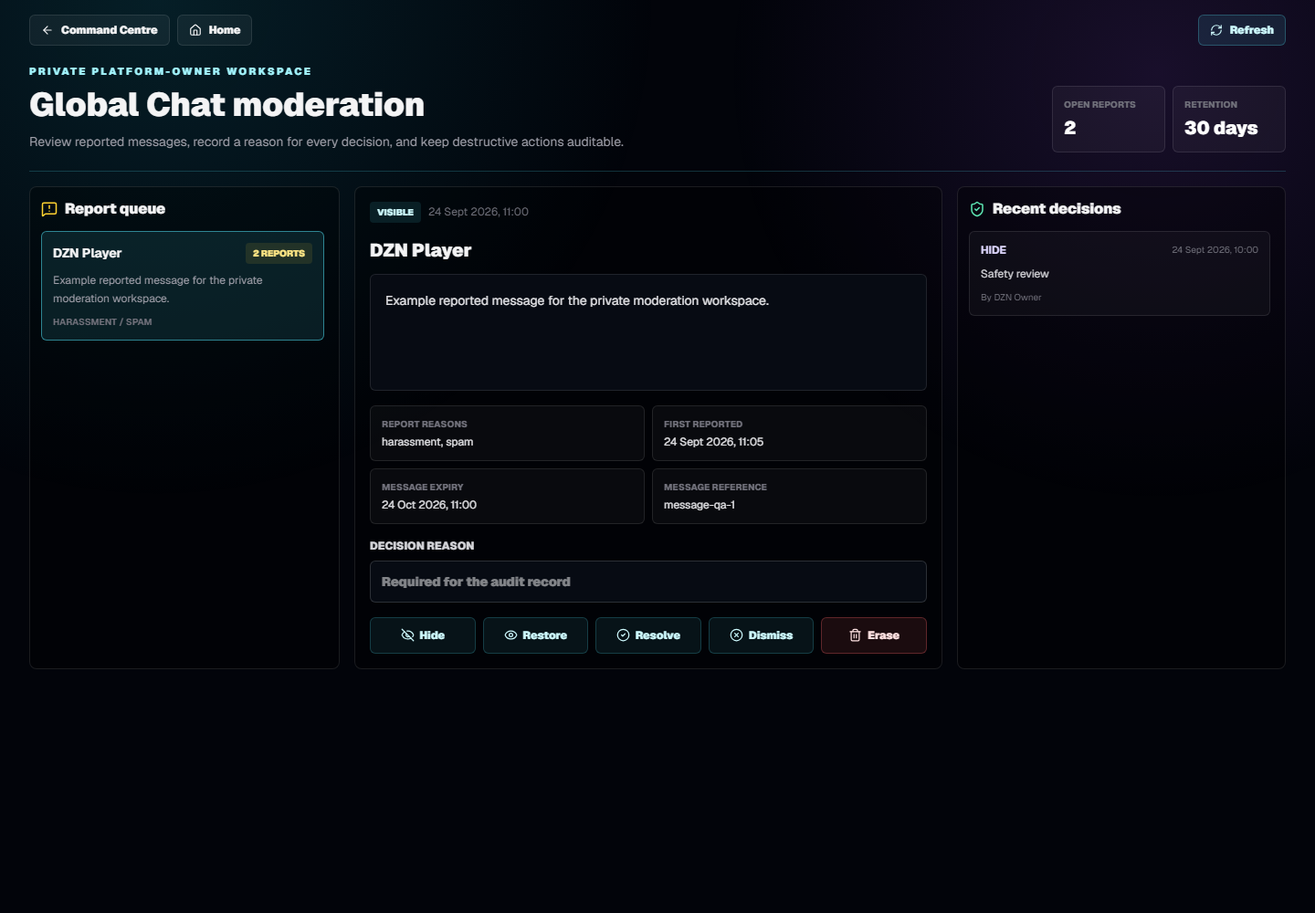
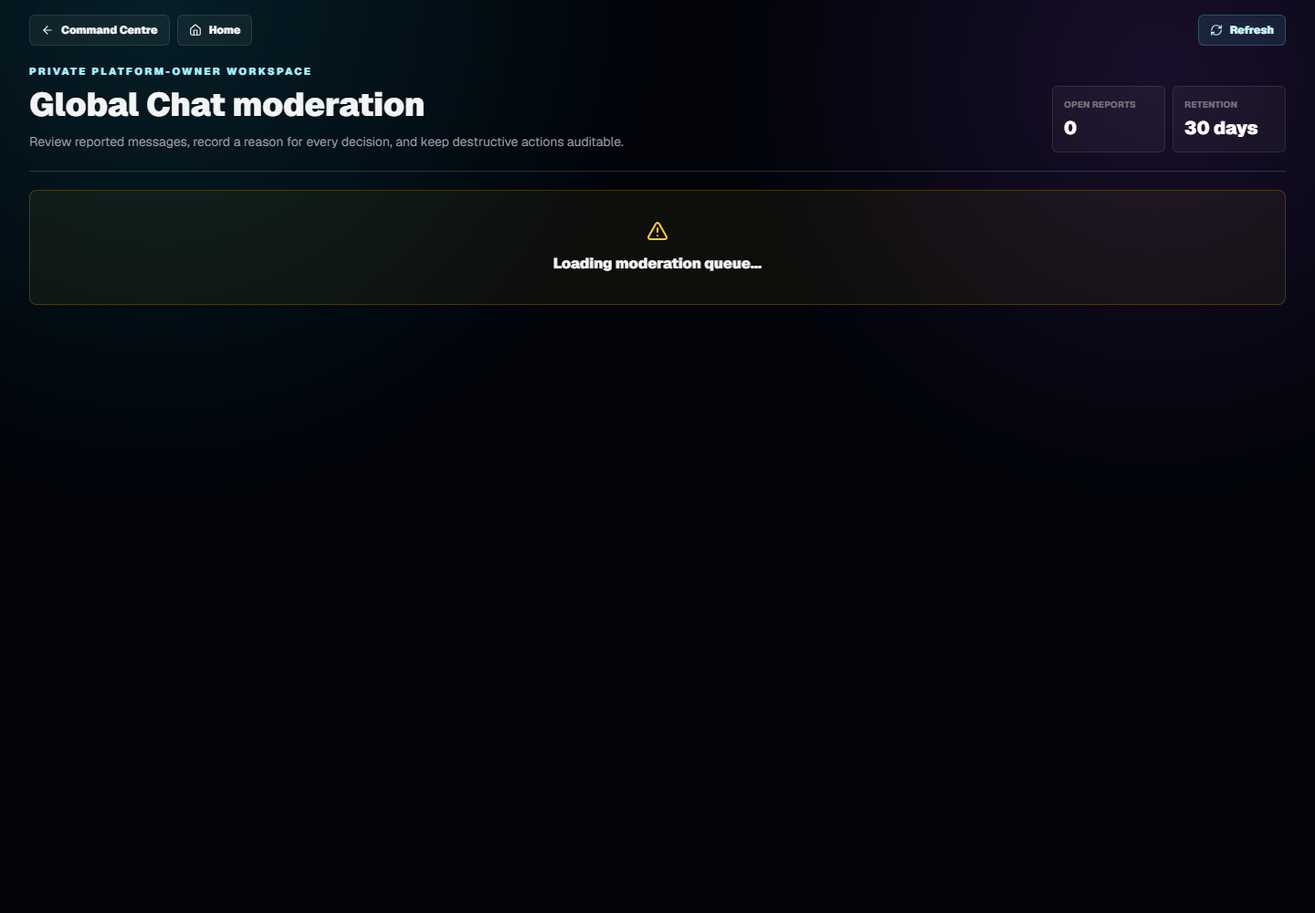
Add private Comms ledger migration

diff --git a/functions/_lib/dzn-comms-live.ts b/functions/_lib/dzn-comms-live.ts
@@ -73,6 +73,7 @@ export async function handleDznCommsSend(request: Request, env: Env) {
   const channel = await db.prepare("SELECT id FROM dzn_comms_channels WHERE slug = 'global-chat' AND kind = 'public' AND visibility = 'public' AND is_readable = 1 LIMIT 1").first<{ id: string }>();
   if (!channel?.id) return error(503, "CHAT_NOT_READY", "Global Chat is not ready yet.");
   const bodyHash = await keyedDigest(typeof parsed.value.body === "string" ? parsed.value.body : "", env.SESSION_SECRET!);
+  const actorReceiptKey = await receiptDigest(user.id, env.SESSION_SECRET!);
   const actorRateKey = await rateLimitDigest(user.id, env.SESSION_SECRET!);
   const now = new Date();
   const minuteBucket = now.toISOString().slice(0, 16);
@@ -82,34 +83,34 @@ export async function handleDznCommsSend(request: Request, env: Env) {
     if (isQuotaConstraintError(cause)) return error(429, "RATE_LIMITED", "Too many chat attempts were made. Wait a moment and retry.");
     return error(503, "CHAT_STORAGE_UNAVAILABLE", "Global Chat could not verify this attempt. Retry shortly.");
   }
-  const replay = await readReceipt(db, user.id, channel.id, requestId);
+  const replay = await readReceipt(db, actorReceiptKey, channel.id, requestId);
   if (replay) {
     if (replay.body_hash !== bodyHash) return error(409, "REQUEST_ID_CONFLICT", "This retry ID was already used for different text.");
     return receiptResponse(replay, true);
   }
   const timeout = await db.prepare("SELECT expires_at FROM dzn_comms_timeouts WHERE actor_user_id = ? AND julianday(expires_at) > julianday('now') LIMIT 1").bind(user.id).first<{ expires_at: string }>();
   if (timeout) return error(423, "CHAT_TIMEOUT", "Chat is temporarily unavailable for this account.");
-  if (moderated.decision !== "allow") return storeRejected(db, user, channel.id, requestId, bodyHash, moderated.decision, moderated.code);
+  if (moderated.decision !== "allow") return storeRejected(db, user, actorReceiptKey, channel.id, requestId, bodyHash, moderated.decision, moderated.code);
   const messageId = crypto.randomUUID();
   const receiptId = crypto.randomUUID();
   const expires = new Date(now.getTime() + 7 * 86_400_000).toISOString();
   const messageExpires = new Date(now.getTime() + MESSAGE_RETENTION_DAYS * 86_400_000).toISOString();
   try {
     await db.batch([
-      deleteExpiredReceipt(db, user.id, channel.id, requestId),
+      deleteExpiredReceipt(db, actorReceiptKey, channel.id, requestId),
       allocateSendSlot(db, actorRateKey, minuteBucket, now.toISOString()),
       db.prepare("INSERT INTO dzn_comms_messages (id, channel_id, author_user_id, author_display_name, author_role_label, body, visibility_state, source_label, expires_at) VALUES (?, ?, ?, ?, 'Member', ?, 'visible', 'authenticated_web_chat', ?)").bind(messageId, channel.id, user.id, safeName(user), moderated.body, messageExpires),
       db.prepare(`INSERT INTO dzn_comms_send_receipts
-        (id, actor_user_id, channel_id, client_request_id, body_hash, decision, response_status, reason_code,
+        (id, actor_receipt_key, channel_id, client_request_id, body_hash, decision, response_status, reason_code,
           message_id, send_rate_key, send_minute_bucket, send_slot, expires_at)
         SELECT ?, ?, ?, ?, ?, 'allow', 201, 'MESSAGE_ALLOWED', ?, ?, ?, slots.slot, ?
         FROM dzn_comms_send_slots AS slots
         WHERE slots.actor_rate_key = ? AND slots.minute_bucket = ? AND slots.accepted_at = ?
-        LIMIT 1`).bind(receiptId, user.id, channel.id, requestId, bodyHash, messageId, actorRateKey, minuteBucket, expires,
+        LIMIT 1`).bind(receiptId, actorReceiptKey, channel.id, requestId, bodyHash, messageId, actorRateKey, minuteBucket, expires,
           actorRateKey, minuteBucket, now.toISOString()),
     ]);
   } catch (cause) {
-    const concurrentReplay = await readReceipt(db, user.id, channel.id, requestId);
+    const concurrentReplay = await readReceipt(db, actorReceiptKey, channel.id, requestId);
     if (concurrentReplay?.body_hash === bodyHash) return receiptResponse(concurrentReplay, true);
     if (concurrentReplay) return error(409, "REQUEST_ID_CONFLICT", "This retry ID was already used for different text.");
     if (isQuotaConstraintError(cause)) return error(429, "RATE_LIMITED", "Wait five seconds before sending another message.");
@@ -247,19 +248,19 @@ export async function runDznCommsRetention(db: D1Database, now = new Date()) {
   };
 }
 
-async function storeRejected(db: D1Database, user: SessionUser, channelId: string, requestId: string, bodyHash: string, decision: "block" | "timeout", reason: string) {
+async function storeRejected(db: D1Database, user: SessionUser, actorReceiptKey: string, channelId: string, requestId: string, bodyHash: string, decision: "block" | "timeout", reason: string) {
   const status = decision === "timeout" ? 423 : 422;
   const receiptId = crypto.randomUUID();
   const now = Date.now();
   const statements = [
-    deleteExpiredReceipt(db, user.id, channelId, requestId),
-    db.prepare("INSERT INTO dzn_comms_send_receipts (id, actor_user_id, channel_id, client_request_id, body_hash, decision, response_status, reason_code, expires_at) VALUES (?, ?, ?, ?, ?, ?, ?, ?, ?)").bind(receiptId, user.id, channelId, requestId, bodyHash, decision, status, reason, new Date(now + 7 * 86_400_000).toISOString()),
+    deleteExpiredReceipt(db, actorReceiptKey, channelId, requestId),
+    db.prepare("INSERT INTO dzn_comms_send_receipts (id, actor_receipt_key, channel_id, client_request_id, body_hash, decision, response_status, reason_code, expires_at) VALUES (?, ?, ?, ?, ?, ?, ?, ?, ?)").bind(receiptId, actorReceiptKey, channelId, requestId, bodyHash, decision, status, reason, new Date(now + 7 * 86_400_000).toISOString()),
   ];
   if (decision === "timeout") statements.push(db.prepare("INSERT INTO dzn_comms_timeouts (actor_user_id, reason_code, expires_at) VALUES (?, ?, ?) ON CONFLICT(actor_user_id) DO UPDATE SET reason_code = excluded.reason_code, expires_at = excluded.expires_at, updated_at = CURRENT_TIMESTAMP").bind(user.id, reason, new Date(now + 10 * 60_000).toISOString()));
   try {
     await db.batch(statements);
   } catch {
-    const replay = await readReceipt(db, user.id, channelId, requestId);
+    const replay = await readReceipt(db, actorReceiptKey, channelId, requestId);
     if (replay?.body_hash === bodyHash) return receiptResponse(replay, true);
     if (replay) return error(409, "REQUEST_ID_CONFLICT", "This retry ID was already used for different text.");
     return error(503, "CHAT_STORAGE_UNAVAILABLE", "Global Chat could not store that safety decision. Retry shortly.");
@@ -267,12 +268,12 @@ async function storeRejected(db: D1Database, user: SessionUser, channelId: strin
   return error(status, reason, decision === "timeout" ? "This account has a short chat timeout for a safety review." : "That message was blocked by DZN Safety.");
 }
 
-async function readReceipt(db: D1Database, actorId: string, channelId: string, requestId: string) {
-  return db.prepare("SELECT body_hash, decision, response_status, reason_code, message_id FROM dzn_comms_send_receipts WHERE actor_user_id = ? AND channel_id = ? AND client_request_id = ? AND julianday(expires_at) > julianday('now') LIMIT 1").bind(actorId, channelId, requestId).first<{ body_hash: string; decision: string; response_status: number; reason_code: string | null; message_id: string | null }>();
+async function readReceipt(db: D1Database, actorReceiptKey: string, channelId: string, requestId: string) {
+  return db.prepare("SELECT body_hash, decision, response_status, reason_code, message_id FROM dzn_comms_send_receipts WHERE actor_receipt_key = ? AND channel_id = ? AND client_request_id = ? AND julianday(expires_at) > julianday('now') LIMIT 1").bind(actorReceiptKey, channelId, requestId).first<{ body_hash: string; decision: string; response_status: number; reason_code: string | null; message_id: string | null }>();
 }
 
-function deleteExpiredReceipt(db: D1Database, actorId: string, channelId: string, requestId: string) {
-  return db.prepare("DELETE FROM dzn_comms_send_receipts WHERE actor_user_id = ? AND channel_id = ? AND client_request_id = ? AND julianday(expires_at) <= julianday('now')").bind(actorId, channelId, requestId);
+function deleteExpiredReceipt(db: D1Database, actorReceiptKey: string, channelId: string, requestId: string) {
+  return db.prepare("DELETE FROM dzn_comms_send_receipts WHERE actor_receipt_key = ? AND channel_id = ? AND client_request_id = ? AND julianday(expires_at) <= julianday('now')").bind(actorReceiptKey, channelId, requestId);
 }
 
 function receiptResponse(row: { decision: string; response_status: number; reason_code: string | null; message_id: string | null }, replayed: boolean) {
@@ -321,4 +322,5 @@ function slotAllocationSql(table: "dzn_comms_attempt_slots" | "dzn_comms_report_
     ))`;
 }
 async function keyedDigest(value: string, secret: string) { const key = await crypto.subtle.importKey("raw", new TextEncoder().encode(`dzn-comms:${secret}`), { name: "HMAC", hash: "SHA-256" }, false, ["sign"]); return [...new Uint8Array(await crypto.subtle.sign("HMAC", key, new TextEncoder().encode(value.normalize("NFKC"))))].map(byte => byte.toString(16).padStart(2, "0")).join(""); }
+async function receiptDigest(actorId: string, secret: string) { const key = await crypto.subtle.importKey("raw", new TextEncoder().encode(`dzn-comms-receipt:${secret}`), { name: "HMAC", hash: "SHA-256" }, false, ["sign"]); return [...new Uint8Array(await crypto.subtle.sign("HMAC", key, new TextEncoder().encode(actorId)))].map(byte => byte.toString(16).padStart(2, "0")).join(""); }
 async function rateLimitDigest(actorId: string, secret: string) { const key = await crypto.subtle.importKey("raw", new TextEncoder().encode(`dzn-comms-rate:${secret}`), { name: "HMAC", hash: "SHA-256" }, false, ["sign"]); return [...new Uint8Array(await crypto.subtle.sign("HMAC", key, new TextEncoder().encode(actorId)))].map(byte => byte.toString(16).padStart(2, "0")).join(""); }

diff --git a/scripts/test-dzn-comms-live-runtime.ts b/scripts/test-dzn-comms-live-runtime.ts
@@ -19,6 +19,10 @@ type Sqlite = {
 
 const { DatabaseSync } = createRequire(import.meta.url)("node:sqlite") as { DatabaseSync: new (path: string) => Sqlite };
 const secret = "dzn-comms-runtime-test-secret-32-bytes-minimum";
+async function receiptKey(actorId: string) {
+  const key = await crypto.subtle.importKey("raw", new TextEncoder().encode(`dzn-comms-receipt:${secret}`), { name: "HMAC", hash: "SHA-256" }, false, ["sign"]);
+  return [...new Uint8Array(await crypto.subtle.sign("HMAC", key, new TextEncoder().encode(actorId)))].map((byte) => byte.toString(16).padStart(2, "0")).join("");
+}
 
 async function fixture() {
   const sqlite = new DatabaseSync(":memory:");
@@ -32,6 +36,7 @@ async function fixture() {
   `);
   sqlite.exec(readFileSync("migrations/0065_dzn_comms_read_history.sql", "utf8"));
   sqlite.exec(readFileSync("migrations/0071_dzn_comms_live_moderation.sql", "utf8"));
+  sqlite.exec(readFileSync("migrations/0072_dzn_comms_private_rate_ledgers.sql", "utf8"));
   const requiredTables = ["dzn_comms_channels", "dzn_comms_messages", "dzn_comms_send_receipts", "dzn_comms_reports", "dzn_comms_moderation_audit"];
   const installedTables = new Set(sqlite.prepare("SELECT name FROM sqlite_master WHERE type = 'table'").all().map((row) => String(row.name)));
   assert.deepEqual(requiredTables.filter((table) => !installedTables.has(table)), [], "Both Comms migrations must install the required tables.");
@@ -153,9 +158,10 @@ async function testSendRuntime() {
 
   const expired = await fixture();
   try {
+    const playerReceiptKey = await receiptKey("player");
     expired.sqlite.prepare(`INSERT INTO dzn_comms_send_receipts
-      (id,actor_user_id,channel_id,client_request_id,body_hash,decision,response_status,reason_code,expires_at)
-      VALUES ('expired','player','dzn-global-chat','request-expired-1','old-hash','block',422,'SPAM_BLOCKED',datetime('now','-1 day'))`).run();
+      (id,actor_receipt_key,channel_id,client_request_id,body_hash,decision,response_status,reason_code,expires_at)
+      VALUES ('expired',?,'dzn-global-chat','request-expired-1','old-hash','block',422,'SPAM_BLOCKED',datetime('now','-1 day'))`).run(playerReceiptKey);
     const replaced = await handleDznCommsSend(request("/api/comms/messages", "player-token", {
       channelSlug: "global-chat", clientRequestId: "request-expired-1", body: "Fresh request after receipt expiry",
     }), expired.env);
@@ -180,9 +186,10 @@ async function testSendRuntime() {
 
   const raced = await fixture();
   try {
+    const playerReceiptKey = await receiptKey("player");
     raced.beforeBatch(() => raced.sqlite.prepare(`INSERT INTO dzn_comms_send_receipts
-      (id,actor_user_id,channel_id,client_request_id,body_hash,decision,response_status,reason_code,expires_at)
-      VALUES ('raced','player','dzn-global-chat','request-race-0001','different-hash','block',422,'SPAM_BLOCKED',datetime('now','+1 day'))`).run());
+      (id,actor_receipt_key,channel_id,client_request_id,body_hash,decision,response_status,reason_code,expires_at)
+      VALUES ('raced',?,'dzn-global-chat','request-race-0001','different-hash','block',422,'SPAM_BLOCKED',datetime('now','+1 day'))`).run(playerReceiptKey));
     const result = await handleDznCommsSend(request("/api/comms/messages", "player-token", {
       channelSlug: "global-chat", clientRequestId: "request-race-0001", body: "Original body",
     }), raced.env);
@@ -246,7 +253,8 @@ async function testReportAndModerationRuntime() {
     const messageId = (await payload(sent)).message_id!;
     erased.sqlite.prepare(`INSERT INTO dzn_comms_reports (id,message_id,reporter_user_id,reason_code)
       VALUES ('report-delete',?,'player','personal_information')`).run(messageId);
-    const receiptBefore = erased.sqlite.prepare("SELECT send_rate_key,send_minute_bucket,send_slot FROM dzn_comms_send_receipts WHERE message_id = ?").get(messageId);
+    const receiptBefore = erased.sqlite.prepare("SELECT actor_receipt_key,send_rate_key,send_minute_bucket,send_slot FROM dzn_comms_send_receipts WHERE message_id = ?").get(messageId);
+    assert.match(String(receiptBefore?.actor_receipt_key), /^[a-f0-9]{64}$/, "Accepted sends must use a pseudonymous receipt key.");
     assert.match(String(receiptBefore?.send_rate_key), /^[a-f0-9]{64}$/, "Accepted sends must use a pseudonymous rate key.");
     assert.ok(receiptBefore?.send_minute_bucket && receiptBefore?.send_slot, "The receipt must persist the exact allocated slot.");
     assert.equal(erased.count("dzn_comms_send_slots"), 1);
@@ -259,7 +267,8 @@ async function testReportAndModerationRuntime() {
     assert.equal(row.author_user_id, null);
     assert.equal(row.visibility_state, "deleted");
     assert.equal(erased.sqlite.prepare("SELECT status FROM dzn_comms_reports WHERE id = 'report-delete'").get()?.status, "resolved");
-    const receiptAfter = erased.sqlite.prepare("SELECT message_id,send_rate_key,send_minute_bucket,send_slot FROM dzn_comms_send_receipts WHERE client_request_id = 'delete-request-0001'").get();
+    const receiptAfter = erased.sqlite.prepare("SELECT actor_receipt_key,message_id,send_rate_key,send_minute_bucket,send_slot FROM dzn_comms_send_receipts WHERE client_request_id = 'delete-request-0001'").get();
+    assert.match(String(receiptAfter?.actor_receipt_key), /^[a-f0-9]{64}$/, "Erasure may retain only the non-reversible receipt key needed for replay protection.");
     assert.equal(receiptAfter?.message_id, null, "Erasure must unlink the retained receipt from the message.");
     assert.equal(receiptAfter?.send_rate_key, null, "Erasure must clear the receipt's pseudonymous rate key.");
     assert.equal(receiptAfter?.send_minute_bucket, null, "Erasure must clear the receipt's exact rate minute.");
@@ -277,7 +286,7 @@ async function testReportAndModerationRuntime() {
       (id,channel_id,author_user_id,author_display_name,body,visibility_state)
       VALUES ('message-delete-late','dzn-global-chat','other','Other','Old sensitive text','visible')`).run();
     erasedAfterSlotExpiry.sqlite.prepare(`INSERT INTO dzn_comms_send_receipts
-      (id,actor_user_id,channel_id,client_request_id,body_hash,decision,response_status,message_id,created_at,expires_at)
+      (id,actor_receipt_key,channel_id,client_request_id,body_hash,decision,response_status,message_id,created_at,expires_at)
       VALUES ('receipt-delete-late','other','dzn-global-chat','delete-late-request','hash','allow',201,'message-delete-late',datetime('now','-3 days'),datetime('now','+4 days'))`).run();
     erasedAfterSlotExpiry.sqlite.prepare(`INSERT INTO dzn_comms_send_slots (actor_rate_key,minute_bucket,slot,accepted_at)
       VALUES ('unrelated-pseudonymous-rate-key',strftime('%Y-%m-%dT%H:%M','now'),1,CURRENT_TIMESTAMP)`).run();
@@ -313,7 +322,7 @@ async function testRetentionRuntime() {
       (id,channel_id,author_user_id,author_display_name,body,visibility_state,expires_at)
       VALUES ('expired-message','dzn-global-chat','other','Other','Expired private text','visible','2026-01-01T00:00:00.000Z')`).run();
     f.sqlite.prepare(`INSERT INTO dzn_comms_send_receipts
-      (id,actor_user_id,channel_id,client_request_id,body_hash,decision,response_status,expires_at)
+      (id,actor_receipt_key,channel_id,client_request_id,body_hash,decision,response_status,expires_at)
       VALUES ('old-receipt','player','dzn-global-chat','old-request','hash','allow',201,'2026-01-01T00:00:00.000Z')`).run();
     f.sqlite.prepare(`INSERT INTO dzn_comms_reports (id,message_id,reporter_user_id,reason_code)
       VALUES ('expired-report','expired-message','player','other')`).run();
@@ -330,7 +339,34 @@ async function testRetentionRuntime() {
   } finally { f.close(); }
 }
 
+function testPrivateLedgerMigrationRuntime() {
+  const sqlite = new DatabaseSync(":memory:");
+  try {
+    sqlite.exec(`PRAGMA foreign_keys = ON;
+      CREATE TABLE users (id TEXT PRIMARY KEY, discord_id TEXT NOT NULL UNIQUE, username TEXT, avatar TEXT);
+      INSERT INTO users VALUES ('legacy-player','100','Legacy Player',NULL);`);
+    sqlite.exec(readFileSync("migrations/0065_dzn_comms_read_history.sql", "utf8"));
+    sqlite.exec(readFileSync("migrations/0071_dzn_comms_live_moderation.sql", "utf8"));
+    sqlite.exec(`INSERT INTO dzn_comms_send_receipts
+        (id,actor_user_id,channel_id,client_request_id,body_hash,decision,response_status,expires_at)
+        VALUES ('legacy-receipt','legacy-player','dzn-global-chat','legacy-request','hash','block',422,datetime('now','+1 day'));
+      INSERT INTO dzn_comms_send_slots (actor_user_id,minute_bucket,slot,accepted_at)
+        VALUES ('legacy-player','2026-09-24T12:00',1,'2026-09-24T12:00:00.000Z');`);
+    sqlite.exec(readFileSync("migrations/0072_dzn_comms_private_rate_ledgers.sql", "utf8"));
+    const receiptColumns = new Set(sqlite.prepare("PRAGMA table_info(dzn_comms_send_receipts)").all().map((row) => String(row.name)));
+    const slotColumns = new Set(sqlite.prepare("PRAGMA table_info(dzn_comms_send_slots)").all().map((row) => String(row.name)));
+    assert.equal(receiptColumns.has("actor_user_id"), false, "The upgraded receipt ledger must drop the raw account ID column.");
+    assert.equal(slotColumns.has("actor_user_id"), false, "The upgraded accepted-send ledger must drop the raw account ID column.");
+    const receipt = sqlite.prepare("SELECT actor_receipt_key FROM dzn_comms_send_receipts WHERE id = 'legacy-receipt'").get();
+    const slot = sqlite.prepare("SELECT actor_rate_key FROM dzn_comms_send_slots").get();
+    assert.match(String(receipt?.actor_receipt_key), /^[a-f0-9]{64}$/);
+    assert.match(String(slot?.actor_rate_key), /^[a-f0-9]{64}$/);
+    assert.equal(sqlite.prepare("PRAGMA foreign_key_check").all().length, 0);
+  } finally { sqlite.close(); }
+}
+
 async function main() {
+  testPrivateLedgerMigrationRuntime();
   await testSendRuntime();
   await testReportAndModerationRuntime();
   await testRetentionRuntime();

diff --git a/docs/DZN_COMMS_MESSAGE_SENDING_CONTRACT.md b/docs/DZN_COMMS_MESSAGE_SENDING_CONTRACT.md
@@ -21,7 +21,7 @@ All activation flags default off:
 - `DZN_COMMS_RETENTION_ENABLED=false`
 - `DZN_COMMS_RETENTION_SCOPE=local_test`
 
-Production activation requires a separately reviewed application of `0065_dzn_comms_read_history.sql` and `0071_dzn_comms_live_moderation.sql`, verification of their exact production ledger state, then server scope `production` and the matching UI flag. A source merge alone does not apply migrations or activate chat.
+Production activation requires a separately reviewed application of `0065_dzn_comms_read_history.sql`, `0071_dzn_comms_live_moderation.sql`, and `0072_dzn_comms_private_rate_ledgers.sql`, verification of their exact production ledger state, then server scope `production` and the matching UI flag. A source merge alone does not apply migrations or activate chat.
 
 The `local_test` scope is accepted only when the request host is loopback or a `.localhost` hostname. It cannot enable write routes on a preview or production hostname, even if the enable flag is set accidentally.
 
@@ -31,7 +31,7 @@ The `local_test` scope is accepted only when the request host is loopback or a `
 
 The server controls actor identity, author label, channel, timestamp, visibility and source. It blocks token-shaped secrets, external Discord invites, repeated-character spam and severe threat/doxxing language. Rejected text remains request-memory-only and is never written to D1.
 
-Accepted messages, quota slots and decision receipts are written in one D1 batch. The receipt key is `(actor_user_id, channel_id, client_request_id)`. Same-key retries return the original result and a different body returns conflict. Each quota write allocates the first free slot atomically under a secret-derived rate key, so the rate ledger does not store the raw user ID. The receipt records the exact allocated slot while the message is active. Destructive erasure clears that association but retains the pseudonymous slot until normal retention, preserving both cooldown and per-minute limits without retaining a message-to-author link. The accepted timestamp is checked against the previous accepted send to enforce a full five elapsed seconds, while bounded minute slots enforce the hard ceiling during concurrent sends.
+Accepted messages, quota slots and decision receipts are written in one D1 batch. Receipts and accepted-send slots use separate secret-derived actor keys and do not store the raw user ID. The receipt key is `(actor_receipt_key, channel_id, client_request_id)`. Same-key retries return the original result and a different body returns conflict. Each quota write allocates the first free slot atomically, and the receipt records the exact allocated slot while the message is active. Destructive erasure clears the message and slot association but retains the independent pseudonymous quota slot until normal retention, preserving both cooldown and per-minute limits without retaining a message-to-author link. The accepted timestamp is checked against the previous accepted send to enforce a full five elapsed seconds, while bounded minute slots enforce the hard ceiling during concurrent sends.
 
 ## Reporting And Moderation
 

diff --git a/docs/DZN_PLAYER_OWNER_PLATFORM_SPEC.md b/docs/DZN_PLAYER_OWNER_PLATFORM_SPEC.md
@@ -255,7 +255,7 @@ DZN Comms is a future site-wide support and community communication system:
 - Profanity filtering, warnings, timed timeouts, report actions, moderation hooks, owner/admin scope, retention rules, and rollback controls.
 - Public-safe aggregate online counter may appear on `/community` or global chat surfaces behind disabled-by-default flags.
 
-Authenticated Global Chat sending is defined in [DZN Comms Live Moderation Contract](DZN_COMMS_MESSAGE_SENDING_CONTRACT.md), with a machine-checkable JSON companion. The default-off implementation adds same-origin Discord-session writes, deterministic filtering/timeouts, durable idempotency and quota ledgers, reports and platform-owner audit actions. Production migrations `0065_dzn_comms_read_history.sql` and `0071_dzn_comms_live_moderation.sql`, production flags and rendered live verification remain separate release operations. Private sending still needs its own membership/revocation proof.
+Authenticated Global Chat sending is defined in [DZN Comms Live Moderation Contract](DZN_COMMS_MESSAGE_SENDING_CONTRACT.md), with a machine-checkable JSON companion. The default-off implementation adds same-origin Discord-session writes, deterministic filtering/timeouts, durable idempotency and quota ledgers, reports and platform-owner audit actions. Production migrations `0065_dzn_comms_read_history.sql`, `0071_dzn_comms_live_moderation.sql`, and `0072_dzn_comms_private_rate_ledgers.sql`, production flags and rendered live verification remain separate release operations. Private sending still needs its own membership/revocation proof.
 
 Do not implement runtime chat routes, sending, message persistence, reaction persistence, reports, moderation mutations, Durable Objects/WebSockets, AI provider credentials, vector stores, analytics/tracking, metered model calls, or production mutations until each part has its own approval slice.
 

diff --git a/docs/DZN_COMMS_ACTIVATION_READINESS_2026-09-24.md b/docs/DZN_COMMS_ACTIVATION_READINESS_2026-09-24.md
@@ -35,9 +35,9 @@ DZN_COMMS_RETENTION_SCOPE=local_test
 ## Controlled Production Activation
 
 1. Confirm the production account, database name and database ID. Capture a recovery point and a sanitized schema/ledger snapshot.
-2. List the D1 migration ledger and prove the exact state of `0065_dzn_comms_read_history.sql` and `0071_dzn_comms_live_moderation.sql` before writing anything.
+2. List the D1 migration ledger and prove the exact state of `0065_dzn_comms_read_history.sql`, `0071_dzn_comms_live_moderation.sql`, and `0072_dzn_comms_private_rate_ledgers.sql` before writing anything.
 3. If approved and pending, apply only migration `0065`; verify its ledger row, tables, indexes and foreign keys.
-4. If approved and pending, apply only migration `0071`; verify its ledger row, tables, indexes, constraints, seeded `global-chat` channel and foreign keys.
+4. If approved and pending, apply `0071` and then `0072` as separate controlled writes; after each migration verify its ledger row, tables, indexes, constraints and foreign keys. Verify the seeded `global-chat` channel after `0071`, and verify that the receipt and accepted-send ledgers contain no raw account ID column after `0072`.
 5. Enable the server history, live, owner-moderation and retention flags with scope `production`. Keep both public UI flags off.
 6. Run authenticated API checks with designated test accounts: history, allowed send, blocked send, replay, conflicting replay, rate limit, report, owner-only queue, hide, restore, resolve and erase.
 7. Invoke the retention route with the configured cron secret against controlled expired fixtures. Prove plaintext and author-link erasure plus bounded maintenance counts.
